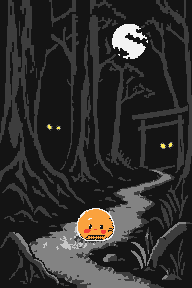
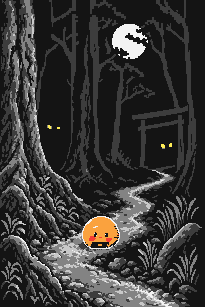
Story cards: the ten world cards drawn out finer as the bosses' (owner's К18 «А»), and the eight arrival cards for everyone (his К17 «А»)
- 01–10 replaced by their detail pass (the same pictures, finer in pixels; card I's Moon white and grey per К9), each on its own grid again
  (STORY cells), their live cells found again (live.json): the eye finder takes a body's tones together (the detailed cards' light shade,
  Kolobok's white rim) and lets a cheek's red touch an eye.
- The arrivals no longer drafts: a world's first level shows its own after card I on 1-1, alone on the others' first levels.

diff --git a/src/game.js b/src/game.js
@@ -2212,31 +2212,31 @@ function px(text, max = Infinity, left = false) {
 }
 // Story cards (owner, 2026-10-22, the narrative «Mochi to the Moon»; his answers: wordless cards over the game, 2:3, each once; round 5: one
 // to each world, with the story's start and end, К5–К8 «А»): `n` the numeral on the frame (in the story's order; the bonus world a star like
-// its number; the end none till the last worlds are built), `still` the art, `cells` its own pixel grid (each card cut on the grid its art
+// its number; the end none till the last worlds are built), `still` the art (the world cards drawn out finer as the bosses' since К18 «А»), `cells` its own pixel grid (each card cut on the grid its art
 // was drawn on, К7), `ink` its world's colours for the frame (К6), `boss` the world whose boss beaten brings it (II and VI come after their own
 // episodes: the crow in 1-3, the treat in Tokyo), `title` under the card. Game.story shows one, the game held under it till Next.
 const STORY = {
-  moon_fall: { n: 'I', still: 'assets/cards/01_moon_fall.png', cells: [168, 252], ink: 'moon', title: { en: 'The Little Accident', es: 'El pequeño accidente', pt: 'O pequeno acidente', ja: 'ちいさな アクシデント' } },
+  moon_fall: { n: 'I', still: 'assets/cards/01_moon_fall.png', cells: [173, 258], ink: 'moon', title: { en: 'The Little Accident', es: 'El pequeño accidente', pt: 'O pequeno acidente', ja: 'ちいさな アクシデント' } },
   village_crow: { n: 'II', still: 'assets/cards/02_village_crow.png', cells: [192, 288], ink: 'village', title: { en: 'A Small Kindness', es: 'Una pequeña bondad', pt: 'Uma pequena gentileza', ja: 'ちいさな やさしさ' } },
-  mine_lamp: { n: 'III', still: 'assets/cards/04_mine_lamp.png', cells: [159, 239], ink: 'cave', boss: 'cave', title: { en: 'The Lamp in the Dark', es: 'La lámpara en la oscuridad', pt: 'A lâmpada no escuro', ja: 'くらやみの ランプ' } },
-  fuji_bell: { n: 'IV', still: 'assets/cards/05_fuji_bell.png', cells: [136, 203], ink: 'ice', boss: 'ice', title: { en: 'The Summit Bell', es: 'La campana de la cima', pt: 'O sino do cume', ja: 'ちょうじょうの かね' } },
-  sea_lighthouse: { n: 'V', still: 'assets/cards/06_sea_lighthouse.png', cells: [162, 243], ink: 'sea', boss: 'sea', title: { en: 'A Light for the Sky', es: 'Una luz para el cielo', pt: 'Uma luz para o céu', ja: 'そらへの ひかり' } },
-  city_friendship: { n: 'VI', still: 'assets/cards/03_city_friendship.png', cells: [171, 256], ink: 'tokyo', title: { en: 'The Shared Treat', es: 'El dulce compartido', pt: 'O doce dividido', ja: 'はんぶんこの おやつ' } },
-  danchi_lantern: { n: 'VII', still: 'assets/cards/07_danchi_lantern.png', cells: [167, 251], ink: 'blocks', boss: 'blocks', title: { en: "A Friend's Lantern", es: 'El farolillo de un amigo', pt: 'A lanterna de um amigo', ja: 'ともだちの ちょうちん' } },
-  sky_clouds: { n: 'VIII', still: 'assets/cards/08_sky_clouds.png', cells: [143, 214], ink: 'sky', boss: 'sky', title: { en: 'The Clouds Part', es: 'Se abren las nubes', pt: 'As nuvens se abrem', ja: 'くもの きれま' } },
-  forest_path: { n: '★', still: 'assets/cards/09_forest_path.png', cells: [192, 288], ink: 'skazka', boss: 'skazka', title: { en: 'The Forest Path', es: 'El camino del bosque', pt: 'O caminho da floresta', ja: 'もりの こみち' } },
-  moon_home: { n: '', still: 'assets/cards/10_moon_home.png', cells: [175, 263], ink: 'moon', title: { en: 'Home', es: 'En casa', pt: 'Em casa', ja: 'おかえり' } },
+  mine_lamp: { n: 'III', still: 'assets/cards/04_mine_lamp.png', cells: [181, 270], ink: 'cave', boss: 'cave', title: { en: 'The Lamp in the Dark', es: 'La lámpara en la oscuridad', pt: 'A lâmpada no escuro', ja: 'くらやみの ランプ' } },
+  fuji_bell: { n: 'IV', still: 'assets/cards/05_fuji_bell.png', cells: [168, 254], ink: 'ice', boss: 'ice', title: { en: 'The Summit Bell', es: 'La campana de la cima', pt: 'O sino do cume', ja: 'ちょうじょうの かね' } },
+  sea_lighthouse: { n: 'V', still: 'assets/cards/06_sea_lighthouse.png', cells: [170, 256], ink: 'sea', boss: 'sea', title: { en: 'A Light for the Sky', es: 'Una luz para el cielo', pt: 'Uma luz para o céu', ja: 'そらへの ひかり' } },
+  city_friendship: { n: 'VI', still: 'assets/cards/03_city_friendship.png', cells: [179, 268], ink: 'tokyo', title: { en: 'The Shared Treat', es: 'El dulce compartido', pt: 'O doce dividido', ja: 'はんぶんこの おやつ' } },
+  danchi_lantern: { n: 'VII', still: 'assets/cards/07_danchi_lantern.png', cells: [171, 256], ink: 'blocks', boss: 'blocks', title: { en: "A Friend's Lantern", es: 'El farolillo de un amigo', pt: 'A lanterna de um amigo', ja: 'ともだちの ちょうちん' } },
+  sky_clouds: { n: 'VIII', still: 'assets/cards/08_sky_clouds.png', cells: [157, 235], ink: 'sky', boss: 'sky', title: { en: 'The Clouds Part', es: 'Se abren las nubes', pt: 'As nuvens se abrem', ja: 'くもの きれま' } },
+  forest_path: { n: '★', still: 'assets/cards/09_forest_path.png', cells: [205, 307], ink: 'skazka', boss: 'skazka', title: { en: 'The Forest Path', es: 'El camino del bosque', pt: 'O caminho da floresta', ja: 'もりの こみち' } },
+  moon_home: { n: '', still: 'assets/cards/10_moon_home.png', cells: [192, 288], ink: 'moon', title: { en: 'Home', es: 'En casa', pt: 'Em casa', ja: 'おかえり' } },
   // A card for Mochi's coming to each world, before its first level (owner, 2026-10-23: «историю с карточками нужно дополнить, например, сначала показываем
   // падение с луны, потом что герой упал в деревню – т.е. везде добавить +1 карточку перехода»; the scheme of the others, drawn out as the bosses' were:
-  // «у карточек тоже используй подход с детализацией»): drafts till his «да» to their art
-  arrive_mine: { n: '', still: 'assets/cards/19_arrive_mine.png', cells: [189, 284], ink: 'village', draft: true, title: { en: 'A Soft Landing', es: 'Un aterrizaje suave', pt: 'Um pouso suave', ja: 'ふんわり ちゃくち' } },
-  arrive_cave: { n: '', still: 'assets/cards/20_arrive_cave.png', cells: [191, 286], ink: 'cave', draft: true, title: { en: 'Into the Mine', es: 'Hacia la mina', pt: 'Rumo à mina', ja: 'こうざんへ' } },
-  arrive_ice: { n: '', still: 'assets/cards/21_arrive_ice.png', cells: [186, 279], ink: 'ice', draft: true, title: { en: 'The Foot of Fuji', es: 'Al pie del Fuji', pt: 'Ao pé do Fuji', ja: 'ふじの ふもと' } },
-  arrive_sea: { n: '', still: 'assets/cards/22_arrive_sea.png', cells: [128, 192], ink: 'sea', draft: true, title: { en: 'Out to Sea', es: 'Mar adentro', pt: 'Mar adentro', ja: 'うみへ' } },
-  arrive_tokyo: { n: '', still: 'assets/cards/23_arrive_tokyo.png', cells: [173, 260], ink: 'tokyo', draft: true, title: { en: 'The Night Train', es: 'El tren nocturno', pt: 'O trem noturno', ja: 'よるの でんしゃ' } },
-  arrive_blocks: { n: '', still: 'assets/cards/24_arrive_blocks.png', cells: [204, 305], ink: 'blocks', draft: true, title: { en: 'Among the Blocks', es: 'Entre los bloques', pt: 'Entre os blocos', ja: 'だんちの なかで' } },
-  arrive_sky: { n: '', still: 'assets/cards/25_arrive_sky.png', cells: [146, 219], ink: 'sky', draft: true, title: { en: 'Up the Tower', es: 'Torre arriba', pt: 'Torre acima', ja: 'タワーの うえへ' } },
-  arrive_skazka: { n: '', still: 'assets/cards/26_arrive_skazka.png', cells: [192, 288], ink: 'skazka', draft: true, title: { en: 'The Forest Gate', es: 'La puerta del bosque', pt: 'O portão da floresta', ja: 'もりの もん' } },
+  // «у карточек тоже используй подход с детализацией»): for everyone since his К17 «А»
+  arrive_mine: { n: '', still: 'assets/cards/19_arrive_mine.png', cells: [189, 284], ink: 'village', title: { en: 'A Soft Landing', es: 'Un aterrizaje suave', pt: 'Um pouso suave', ja: 'ふんわり ちゃくち' } },
+  arrive_cave: { n: '', still: 'assets/cards/20_arrive_cave.png', cells: [191, 286], ink: 'cave', title: { en: 'Into the Mine', es: 'Hacia la mina', pt: 'Rumo à mina', ja: 'こうざんへ' } },
+  arrive_ice: { n: '', still: 'assets/cards/21_arrive_ice.png', cells: [186, 279], ink: 'ice', title: { en: 'The Foot of Fuji', es: 'Al pie del Fuji', pt: 'Ao pé do Fuji', ja: 'ふじの ふもと' } },
+  arrive_sea: { n: '', still: 'assets/cards/22_arrive_sea.png', cells: [128, 192], ink: 'sea', title: { en: 'Out to Sea', es: 'Mar adentro', pt: 'Mar adentro', ja: 'うみへ' } },
+  arrive_tokyo: { n: '', still: 'assets/cards/23_arrive_tokyo.png', cells: [173, 260], ink: 'tokyo', title: { en: 'The Night Train', es: 'El tren nocturno', pt: 'O trem noturno', ja: 'よるの でんしゃ' } },
+  arrive_blocks: { n: '', still: 'assets/cards/24_arrive_blocks.png', cells: [204, 305], ink: 'blocks', title: { en: 'Among the Blocks', es: 'Entre los bloques', pt: 'Entre os blocos', ja: 'だんちの なかで' } },
+  arrive_sky: { n: '', still: 'assets/cards/25_arrive_sky.png', cells: [146, 219], ink: 'sky', title: { en: 'Up the Tower', es: 'Torre arriba', pt: 'Torre acima', ja: 'タワーの うえへ' } },
+  arrive_skazka: { n: '', still: 'assets/cards/26_arrive_skazka.png', cells: [192, 288], ink: 'skazka', title: { en: 'The Forest Gate', es: 'La puerta del bosque', pt: 'O portão da floresta', ja: 'もりの もん' } },
   // The bosses' (owner, 2026-10-23: «Для каждого босса нужна сюжетная карточка»; К11 «А»: before its first fight, by playLevel), each named as the
   // boss is, in its world's ink and its own: for all since his К13 «А» (2026-10-23; the tram face-on, as he asked)
   boss_probka: { n: '', still: 'assets/cards/11_boss_probka.png', cells: [184, 276], ink: 'mine', title: BOSSES.probka.name },
